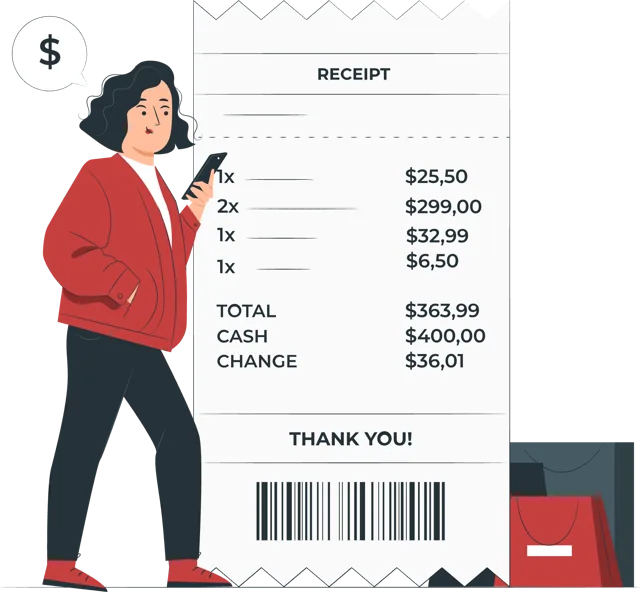
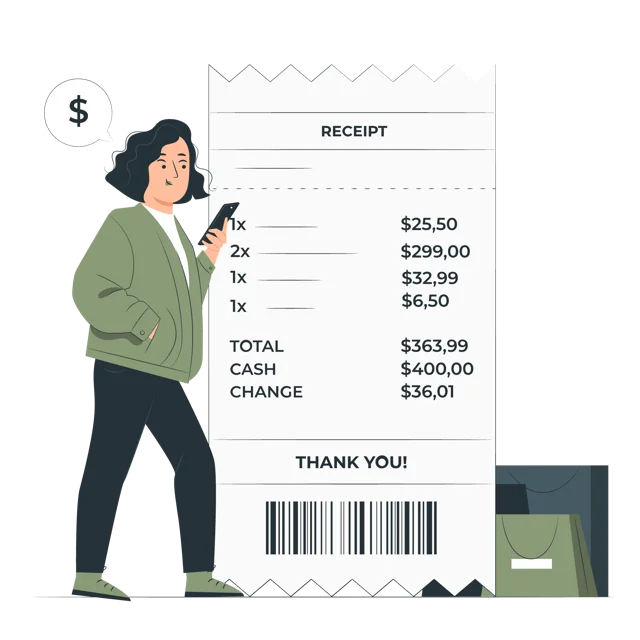
New picture, Storyset credit, red You owe, faster updates, show/hide passcode, security headers

diff --git a/public/app.js b/public/app.js
@@ -2,7 +2,7 @@
 "use strict";
 const V = document.getElementById("view");
 const DLG = document.getElementById("dlg");
-const POLL_MS = 20000;
+const POLL_MS = 10000;
 const BUILT_IN = ["Groceries","Dining","Lodging","Rent","Utilities","Travel","Transport","Shopping","Fun","Health","Other"];
 const CURRENCIES = [["USD","USD $"],["INR","INR ₹"],["EUR","EUR €"],["GBP","GBP £"],["CAD","CAD $"]];
 const MAX_RX = 4;
@@ -38,6 +38,8 @@ function ago(t){
 const shortDate = t => new Date(t).toLocaleDateString(undefined, { month: "short", day: "numeric" });
 const dot = (p, cls = "") => `<span class="dot ${cls}" style="background:${esc((p && p.color) || "#7a6f5c")}" aria-hidden="true">${esc(initial(p && p.name))}</span>`;
 const ICON = {
+  eye: `<svg width="18" height="18" viewBox="0 0 24 24" fill="none" stroke="currentColor" stroke-width="2" stroke-linecap="round" stroke-linejoin="round" aria-hidden="true"><path d="M2 12s3.6-7 10-7 10 7 10 7-3.6 7-10 7S2 12 2 12z"/><circle cx="12" cy="12" r="3"/></svg>`,
+  eyeOff: `<svg width="18" height="18" viewBox="0 0 24 24" fill="none" stroke="currentColor" stroke-width="2" stroke-linecap="round" stroke-linejoin="round" aria-hidden="true"><path d="M3 3l18 18"/><path d="M10.6 5.1A10.4 10.4 0 0 1 12 5c6.4 0 10 7 10 7a17.6 17.6 0 0 1-3.2 4.1M6.6 6.6C3.8 8.4 2 12 2 12s3.6 7 10 7a9.8 9.8 0 0 0 5.4-1.6"/><path d="M9.9 9.9a3 3 0 0 0 4.2 4.2"/></svg>`,
   back: `<svg width="18" height="18" viewBox="0 0 24 24" fill="none" stroke="currentColor" stroke-width="2.4" stroke-linecap="round" stroke-linejoin="round" aria-hidden="true"><path d="M15 18l-6-6 6-6"/></svg>`,
   chev: `<svg width="16" height="16" viewBox="0 0 24 24" fill="none" stroke="#5f6b5c" stroke-width="2.4" stroke-linecap="round" aria-hidden="true"><path d="M9 6l6 6-6 6"/></svg>`,
   alert: `<svg width="18" height="18" viewBox="0 0 24 24" fill="none" stroke="#a8452a" stroke-width="2.4" stroke-linecap="round" aria-hidden="true" style="flex:none;margin-top:1px"><circle cx="12" cy="12" r="9"/><path d="M12 8v5M12 16.5v.01"/></svg>`,
@@ -264,12 +266,13 @@ function viewAuth(r){
       <input id="au" name="username" type="text" autocomplete="username" autocapitalize="off" spellcheck="false" maxlength="20" required>
       ${create ? `<span class="hint" id="auHint">This is the name your groups will see.</span>` : ""}</div>
     <div class="field"><label class="eyebrow" for="ap">Password</label>
-      <input id="ap" name="password" type="password" autocomplete="${create ? "new-password" : "current-password"}" minlength="8" required>
+      <span class="pwwrap"><input id="ap" name="password" type="password" autocomplete="${create ? "new-password" : "current-password"}" minlength="8" required><button type="button" class="eye" data-act="peek" aria-label="Show" aria-pressed="false">${ICON.eye}</button></span>
       ${create ? `<span class="hint">At least 8 characters.</span>` : ""}</div>
     ${create ? "" : `<button type="button" class="linkbtn" data-act="toReset" style="align-self:flex-start">Forgot password?</button>`}
     <div class="err" id="aErr" role="alert"></div>
     <button class="btn primary full" type="submit">${create ? "Create profile" : "Log in"}</button>
-  </form>`;
+  </form>
+  <p class="credit"><a href="https://storyset.com" target="_blank" rel="noopener noreferrer">Illustrations by Storyset</a></p>`;
 }
 function viewReset(){
   return `${backLink("Log in", "toLogin")}
@@ -278,7 +281,7 @@ function viewReset(){
   <form class="stack" data-form="reset" novalidate style="gap:16px">
     <div class="field"><label class="eyebrow" for="ru">Username</label><input id="ru" name="username" type="text" autocomplete="username" autocapitalize="off" spellcheck="false"></div>
     <div class="field"><label class="eyebrow" for="rc">Recovery code</label><input id="rc" name="code" type="text" autocapitalize="characters" autocomplete="off" spellcheck="false" placeholder="XXXX-XXXX-XXXX" style="font-family:var(--mono)"></div>
-    <div class="field"><label class="eyebrow" for="rn">New password</label><input id="rn" name="password" type="password" autocomplete="new-password"><span class="hint">At least 8 characters.</span></div>
+    <div class="field"><label class="eyebrow" for="rn">New password</label><span class="pwwrap"><input id="rn" name="password" type="password" autocomplete="new-password"><button type="button" class="eye" data-act="peek" aria-label="Show" aria-pressed="false">${ICON.eye}</button></span><span class="hint">At least 8 characters.</span></div>
     <div class="card pad note">${ICON.info}<span>After this, you'll get a new recovery code. Your old one stops working.</span></div>
     <div class="err" id="rErr" role="alert"></div>
     <button class="btn primary full" type="submit">Set new password</button>
@@ -308,7 +311,7 @@ function viewHome(){
   const curs = Object.keys(net).sort((a, z) => Math.abs(net[z]) - Math.abs(net[a]));
   if (!curs.length) curs.push(gs[0] ? gs[0].currency : "USD");
   const cline = c => { const v = net[c] || 0;
-    return `<div class="cline"><span class="csym" aria-hidden="true">${esc(curSymbol(c))}</span><span class="l">${v > 0 ? "You're owed" : v < 0 ? "You owe" : "You're settled up"}</span><b style="color:${v > 0 ? "#d9ead0" : v < 0 ? "#ffd2c2" : "#fff"}">${fmt(Math.abs(v), c)}</b></div>`; };
+    return `<div class="cline${v < 0 ? " owe" : ""}"><span class="csym" aria-hidden="true">${esc(curSymbol(c))}</span><span class="l">${v > 0 ? "You're owed" : v < 0 ? "You owe" : "You're settled up"}</span><b style="color:${v > 0 ? "#d9ead0" : "#fff"}">${fmt(Math.abs(v), c)}</b></div>`; };
   const settles = gs.flatMap(g => (g.settles || []).map(s => ({ ...s, g })));
   return `<div class="topbar"><h1 style="font-size:28px;overflow-wrap:anywhere;min-width:0">Hello, ${esc(u.username)}</h1>
     <button type="button" class="avatar" data-act="profile" aria-label="Your profile">${esc(initial(u.username))}</button></div>
@@ -439,7 +442,7 @@ function viewCreate(){
   <h1>Create a group</h1>
   <form class="stack" data-form="create" novalidate style="gap:14px">
     <div class="field"><label class="eyebrow" for="gn">Group name</label><input id="gn" name="name" type="text" maxlength="60" placeholder="Flat 4B, Goa trip, Friday dinners" autofocus></div>
-    <div class="field"><label class="eyebrow" for="gp">Group passcode</label><input id="gp" name="passcode" type="text" autocapitalize="off" autocomplete="off" spellcheck="false" placeholder="mango-rooftop-17">
+    <div class="field"><label class="eyebrow" for="gp">Group passcode</label><span class="pwwrap"><input id="gp" name="passcode" type="text" autocapitalize="off" autocomplete="off" spellcheck="false" placeholder="mango-rooftop-17"><button type="button" class="eye" data-act="peek" aria-label="Hide" aria-pressed="true">${ICON.eyeOff}</button></span>
       <span class="hint">Friends need this and the link to join. At least 6 characters.</span></div>
     <div class="field"><label class="eyebrow" for="gc">Money</label>
       <select id="gc" name="currency">${CURRENCIES.map(([v, l]) => `<option value="${v}">${esc(l)}</option>`).join("")}</select>
@@ -460,7 +463,7 @@ function viewJoin(gid, g){
   </div>
   <form class="stack" data-form="join" novalidate>
     <div class="field"><label class="eyebrow" for="jp">Group passcode</label>
-      <input id="jp" name="passcode" type="password" autocomplete="off" autocapitalize="off" spellcheck="false" ${ch ? "readonly" : "autofocus"} value="${esc(S.ui.pc || "")}"></div>
+      <span class="pwwrap"><input id="jp" name="passcode" type="password" autocomplete="off" autocapitalize="off" spellcheck="false" ${ch ? "readonly" : "autofocus"} value="${esc(S.ui.pc || "")}"><button type="button" class="eye" data-act="peek" aria-label="Show" aria-pressed="false">${ICON.eye}</button></span></div>
     ${ch ? `<section class="card pad stack" style="gap:10px">
       <h2>Which one is you?</h2>
       <p class="small muted">This group has names that aren't linked to a profile yet. Pick yours to keep your past expenses.</p>
@@ -476,7 +479,7 @@ function viewPasscode(gid, g){
   <div class="stack tight"><span class="eyebrow">Passcode changed</span><h1>${esc(g.invite.name)}</h1>
   <p class="muted">The person who created this group changed its passcode. Enter the new one to keep going. Ask them if you don't have it.</p></div>
   <form class="stack" data-form="verify" novalidate>
-    <div class="field"><label class="eyebrow" for="vp">New passcode</label><input id="vp" name="passcode" type="password" autocomplete="off" autocapitalize="off" spellcheck="false" autofocus></div>
+    <div class="field"><label class="eyebrow" for="vp">New passcode</label><span class="pwwrap"><input id="vp" name="passcode" type="password" autocomplete="off" autocapitalize="off" spellcheck="false" autofocus><button type="button" class="eye" data-act="peek" aria-label="Show" aria-pressed="false">${ICON.eye}</button></span></div>
     <div class="err" id="vErr" role="alert"></div>
     <button class="btn primary full" type="submit">Open group</button>
   </form>`;
@@ -511,7 +514,7 @@ function headerLine(g){
 function heroCard(g){
   const v = balances(g)[g.me] || { net: 0, paid: 0, share: 0 }, cur = g.meta.currency;
   const lbl = v.net > 0 ? "You're owed" : v.net < 0 ? "You owe" : "You're settled up";
-  return `<section class="hero" aria-label="Your balance">
+  return `<section class="hero${v.net < 0 ? " owe" : ""}" aria-label="Your balance">
     <div class="lbl">${lbl}</div>
     <div class="big">${fmt(Math.abs(v.net), cur)}</div>
     <div class="tear"></div>
@@ -598,7 +601,7 @@ function dayLabel(d){
 }
 function ledgerHtml(g, f = {}){
   if (!g.entries.length) return `<section class="card pad stack center" style="align-items:center">
-    <img class="illus" style="max-width:220px" src="/assets/empty.webp" width="640" height="592" alt="">
+    <img class="illus" style="max-width:220px" src="/assets/empty.webp?v=2" width="640" height="640" alt="">
     <h2>No expenses yet</h2><p class="small muted">Log the first one: who paid, how much, and who it was for.</p></section>`;
   const q = (f.q || "").trim().toLowerCase(), pf = f.pf && f.pf !== "all" ? f.pf : "", cf = (f.cf || "").toLowerCase();
   const list = g.entries.filter(e => !pf || e.paidBy === pf || (e.split && pf in e.split))
@@ -1139,6 +1142,8 @@ async function copyText(t, okMsg){
 
 /* ---------- clicks ---------- */
 const ACT = {
+  peek: el => { const i = el.parentElement.querySelector("input"); const show = i.type === "password"; i.type = show ? "text" : "password";
+    el.setAttribute("aria-pressed", String(show)); el.setAttribute("aria-label", show ? "Hide" : "Show"); el.innerHTML = show ? ICON.eyeOff : ICON.eye; i.focus(); },
   retry: () => render(),
   home: () => go("/", {}),
   back: () => history.length > 1 ? history.back() : go("/"),
@@ -1160,13 +1165,13 @@ const ACT = {
   logout: async () => { try { await api("POST", "/api/auth", { op: "logout" }); } catch {} S.user = null; S.home = null; S.g = {}; go("/", {}); },
   dlgUsername: () => openDialog(dlgShell("Change username", `<div class="field"><label class="eyebrow" for="du">New username</label><input id="du" name="username" type="text" autocapitalize="off" spellcheck="false" maxlength="20" value="${esc(S.user.username)}"><span class="hint">3 to 20 letters, numbers, dots or underscores. Groups will see the new name.</span></div>`, "Save"),
     async f => { const d = await api("POST", "/api/auth", { op: "changeUsername", username: f.username }); S.user = { ...S.user, ...d.user }; S.home = null; S.g = {}; DLG.close(); toast("Username changed"); render(); }),
-  dlgPassword: () => openDialog(dlgShell("Change password", `<div class="field"><label class="eyebrow" for="dc">Current password</label><input id="dc" name="current" type="password" autocomplete="current-password"></div>
-    <div class="field"><label class="eyebrow" for="dn">New password</label><input id="dn" name="password" type="password" autocomplete="new-password"><span class="hint">At least 8 characters. Other devices will be logged out.</span></div>`, "Save"),
+  dlgPassword: () => openDialog(dlgShell("Change password", `<div class="field"><label class="eyebrow" for="dc">Current password</label><span class="pwwrap"><input id="dc" name="current" type="password" autocomplete="current-password"><button type="button" class="eye" data-act="peek" aria-label="Show" aria-pressed="false">${ICON.eye}</button></span></div>
+    <div class="field"><label class="eyebrow" for="dn">New password</label><span class="pwwrap"><input id="dn" name="password" type="password" autocomplete="new-password"><button type="button" class="eye" data-act="peek" aria-label="Show" aria-pressed="false">${ICON.eye}</button></span><span class="hint">At least 8 characters. Other devices will be logged out.</span></div>`, "Save"),
     async f => { await api("POST", "/api/auth", { op: "changePassword", current: f.current, password: f.password }); DLG.close(); toast("Password changed"); }),
-  dlgRecovery: () => openDialog(dlgShell("New recovery code", `<p class="small muted">Your old code will stop working. Enter your password to continue.</p><div class="field"><label class="eyebrow" for="dr">Password</label><input id="dr" name="password" type="password" autocomplete="current-password"></div>`, "Get new code"),
+  dlgRecovery: () => openDialog(dlgShell("New recovery code", `<p class="small muted">Your old code will stop working. Enter your password to continue.</p><div class="field"><label class="eyebrow" for="dr">Password</label><span class="pwwrap"><input id="dr" name="password" type="password" autocomplete="current-password"><button type="button" class="eye" data-act="peek" aria-label="Show" aria-pressed="false">${ICON.eye}</button></span></div>`, "Get new code"),
     async f => { const d = await api("POST", "/api/auth", { op: "newRecovery", password: f.password }); DLG.close(); S.showCode = { code: d.recoveryCode }; render(); }),
   dlgDelete: () => openDialog(dlgShell("Delete your profile?", `<p class="small" style="color:var(--body2)">You'll leave every group. Your past expenses stay in them, shown as "former member". You need to be settled up everywhere first. If you're the only one left in a group you created, that group is deleted too. This can't be undone.</p>
-    <div class="field"><label class="eyebrow" for="dd">Password</label><input id="dd" name="password" type="password" autocomplete="current-password"></div>`, "Delete profile", true),
+    <div class="field"><label class="eyebrow" for="dd">Password</label><span class="pwwrap"><input id="dd" name="password" type="password" autocomplete="current-password"><button type="button" class="eye" data-act="peek" aria-label="Show" aria-pressed="false">${ICON.eye}</button></span></div>`, "Delete profile", true),
     async f => { await api("POST", "/api/auth", { op: "deleteProfile", password: f.password }); DLG.close(); S.user = null; S.home = null; S.g = {}; toast("Profile deleted"); go("/", {}); }),
   pick: el => { S.ui.claim = el.dataset.id; S.ui.pc = V.querySelector("#jp").value; render(); },
   invite: () => { const g = G(); copyText(`Join "${g.meta.name}" on Contri so we can split costs: ${inviteLink(g.meta.id)}\nI'll send you the passcode separately.`, "Invite copied"); },
@@ -1228,7 +1233,7 @@ const ACT = {
     catch (e){ el.disabled = false; handleErr(e, V.querySelector("#bkErr")); }
   },
   tip: () => { S.ui.tip = !S.ui.tip; const t = V.querySelector("#curTip"); t.hidden = !S.ui.tip; V.querySelector("[data-act=tip]").setAttribute("aria-expanded", S.ui.tip); },
-  dlgPasscode: () => openDialog(dlgShell("Change passcode", `<div class="field"><label class="eyebrow" for="dp">New passcode</label><input id="dp" name="passcode" type="text" autocapitalize="off" autocomplete="off" spellcheck="false"><span class="hint">At least 6 characters. Everyone else will be asked for it the next time they open the group.</span></div>`, "Change passcode"),
+  dlgPasscode: () => openDialog(dlgShell("Change passcode", `<div class="field"><label class="eyebrow" for="dp">New passcode</label><span class="pwwrap"><input id="dp" name="passcode" type="text" autocapitalize="off" autocomplete="off" spellcheck="false"><button type="button" class="eye" data-act="peek" aria-label="Hide" aria-pressed="true">${ICON.eyeOff}</button></span><span class="hint">At least 6 characters. Everyone else will be asked for it the next time they open the group.</span></div>`, "Change passcode"),
     async f => { const g = G(); await api("POST", "/api/group", { op: "changePasscode", g: g.meta.id, passcode: f.passcode }); await loadGroup(g.meta.id); DLG.close(); toast("Passcode changed. Send it to the group."); render(); }),
   leave: async el => {
     const g = G();
@@ -1371,24 +1376,37 @@ let polling = false;
 async function poll(){
   const r = route();
   if (polling || document.visibilityState !== "visible" || DLG.open || !S.user) return;
-  if (!r.gid || r.sec === "expense" || r.sec === "pay" || r.sec === "leave") return;
+  if (r.sec === "expense" || r.sec === "pay" || r.sec === "leave") return;
+  const a = document.activeElement;
+  if (a && a !== document.body && a.matches("input,select,textarea") && a.type !== "search") return;
+  if (!r.gid) return pollHome(r);
   const g = S.g[r.gid];
   if (!g || !g.meta) return;
-  const a = document.activeElement;
-  if (a && a !== document.body && a.matches("input,select,textarea")) return;
   polling = true;
   try {
     const before = new Set(g.entries.map(e => e.id + ":" + (e.editedAt || e.createdAt)));
     if (await loadGroup(r.gid, true)){
       const ng = S.g[r.gid];
       if (ng.meta) S.fresh = new Set(ng.entries.filter(e => !before.has(e.id + ":" + (e.editedAt || e.createdAt))).map(e => e.id));
-      const y = window.scrollY; await render(); window.scrollTo(0, y);
+      const y = window.scrollY, f = document.activeElement, fid = f && f.id, sel = fid && f.selectionStart;
+      await render(); window.scrollTo(0, y);
+      if (fid){ const n = document.getElementById(fid); if (n){ n.focus({ preventScroll: true }); try { n.setSelectionRange(sel, sel); } catch {} } }
     }
     const off = V.querySelector("#offline"); if (off) off.hidden = true;
   } catch (e){
     if (e.status === 0){ const off = V.querySelector("#offline"); if (off){ off.textContent = "You're offline. Changes from others will show up when you reconnect."; off.hidden = false; } }
     else if (e.status === 401 || e.status === 403 || e.status === 404){ delete S.g[r.gid]; render(); }
   } finally { polling = false; }
+}
+async function pollHome(r){
+  if (r.v || !S.home) return;
+  polling = true;
+  try {
+    const d = await api("GET", "/api/home");
+    if (JSON.stringify(d) !== JSON.stringify(S.home) && !route().gid && !route().v && !DLG.open){
+      S.home = d; const y = window.scrollY; paint(S.home.groups.length ? viewHome() : viewEmptyHome(), "", true); window.scrollTo(0, y);
+    }
+  } catch {} finally { polling = false; }
 }
 setInterval(poll, POLL_MS);
 document.addEventListener("visibilitychange", () => {

diff --git a/test/server.js b/test/server.js
@@ -1,0 +1,89 @@
+// Local test server: serves public/ and the api/ functions against an in-memory Redis.
+import http from "node:http";
+import fs from "node:fs";
+import path from "node:path";
+import { fileURLToPath } from "node:url";
+
+const root = path.join(path.dirname(fileURLToPath(import.meta.url)), "..");
+
+class Mem {
+  constructor() { this.m = new Map(); this.exp = new Map(); }
+  _alive(k) { const e = this.exp.get(k); if (e && e <= Date.now()) { this.m.delete(k); this.exp.delete(k); } return this.m.has(k); }
+  _get(k, type, make) { this._alive(k); let v = this.m.get(k); if (v === undefined && make) { v = make(); this.m.set(k, v); } return v; }
+  async get(k) { const v = this._get(k); return v === undefined ? null : v; }
+  async set(k, v, o = {}) { if (o.nx && this._alive(k)) return null; this.m.set(k, String(v)); this.exp.delete(k); if (o.ex) this.exp.set(k, Date.now() + o.ex * 1000); return "OK"; }
+  async del(...ks) { let n = 0; for (const k of ks) { if (this._alive(k)) n++; this.m.delete(k); this.exp.delete(k); } return n; }
+  async exists(k) { return this._alive(k) ? 1 : 0; }
+  async incr(k) { const v = Number(this._get(k) || 0) + 1; this.m.set(k, String(v)); return v; }
+  async expire(k, s) { if (!this._alive(k)) return 0; this.exp.set(k, Date.now() + s * 1000); return 1; }
+  async ttl(k) { if (!this._alive(k)) return -2; const e = this.exp.get(k); return e ? Math.ceil((e - Date.now()) / 1000) : -1; }
+  async persist(k) { return this.exp.delete(k) ? 1 : 0; }
+  async hgetall(k) { const h = this._get(k); if (!h) return null; return [...h.entries()].flat(); }
+  async hget(k, f) { const h = this._get(k); return h && h.has(f) ? h.get(f) : null; }
+  async hset(k, obj) { const h = this._get(k, "h", () => new Map()); let n = 0; for (const [f, v] of Object.entries(obj)) { if (!h.has(f)) n++; h.set(f, String(v)); } return n; }
+  async hsetnx(k, f, v) { const h = this._get(k, "h", () => new Map()); if (h.has(f)) return 0; h.set(f, String(v)); return 1; }
+  async hexists(k, f) { const h = this._get(k); return h && h.has(f) ? 1 : 0; }
+  async hdel(k, ...fs) { const h = this._get(k); if (!h) return 0; let n = 0; for (const f of fs) if (h.delete(f)) n++; if (!h.size) this.m.delete(k); return n; }
+  async lpush(k, ...vs) { const l = this._get(k, "l", () => []); for (const v of vs) l.unshift(String(v)); return l.length; }
+  async rpush(k, ...vs) { const l = this._get(k, "l", () => []); for (const v of vs) l.push(String(v)); return l.length; }
+  async ltrim(k, a, b) { const l = this._get(k); if (!l) return "OK"; const r = l.slice(a, b === -1 ? undefined : b + 1); this.m.set(k, r); return "OK"; }
+  async lrange(k, a, b) { const l = this._get(k) || []; return l.slice(a, b === -1 ? undefined : b + 1); }
+  async sadd(k, ...vs) { const s = this._get(k, "s", () => new Set()); let n = 0; for (const v of vs) if (!s.has(String(v))) { s.add(String(v)); n++; } return n; }
+  async srem(k, ...vs) { const s = this._get(k); if (!s) return 0; let n = 0; for (const v of vs) if (s.delete(String(v))) n++; if (!s.size) this.m.delete(k); return n; }
+  async smembers(k) { return [...(this._get(k) || [])]; }
+  async scard(k) { return (this._get(k) || new Set()).size; }
+}
+globalThis.__ledgerStore = new Mem();
+export const mem = globalThis.__ledgerStore;
+
+const handlers = {};
+for (const f of ["auth", "group", "home", "receipt", "backup", "cron"]) handlers[f] = (await import(path.join(root, "api", f + ".js"))).default;
+
+const types = { ".html": "text/html", ".js": "text/javascript", ".css": "text/css", ".png": "image/png", ".webp": "image/webp", ".ico": "image/x-icon", ".webmanifest": "application/manifest+json", ".svg": "image/svg+xml" };
+
+export function start(port = 5180) {
+  const server = http.createServer(async (req, res) => {
+    const u = new URL(req.url, "http://x");
+    const m = u.pathname.match(/^\/api\/([a-z]+)$/);
+    if (m && handlers[m[1]]) {
+      let raw = "";
+      for await (const c of req) raw += c;
+      req.query = Object.fromEntries(u.searchParams);
+      try { req.body = raw ? JSON.parse(raw) : {}; } catch { req.body = raw; }
+      res.status = c => { res.statusCode = c; return res; };
+      res.json = o => { res.setHeader("content-type", "application/json"); res.end(JSON.stringify(o)); return res; };
+      // Local test server is plain http, so drop "Secure" from cookies.
+      const sh = res.setHeader.bind(res);
+      res.setHeader = (k, v) => sh(k, k.toLowerCase() === "set-cookie" ? String(v).replace("; Secure", "") : v);
+      return handlers[m[1]](req, res);
+    }
+    let p = u.pathname.startsWith("/g/") || u.pathname === "/" ? "/index.html" : u.pathname;
+    const file = path.join(root, "public", path.normalize(p));
+    if (!file.startsWith(path.join(root, "public")) || !fs.existsSync(file)) { res.statusCode = 404; return res.end("not found"); }
+    res.setHeader("content-type", types[path.extname(file)] || "application/octet-stream");
+    for (const h of (JSON.parse(fs.readFileSync(path.join(root, "vercel.json"), "utf8")).headers || [])[0]?.headers || []) res.setHeader(h.key, h.value);
+    fs.createReadStream(file).pipe(res);
+  });
+  return new Promise(ok => server.listen(port, () => ok(server)));
+}
+
+if (process.argv[1] === fileURLToPath(import.meta.url)) {
+  // Seed the old single-group data so moving it over can be tried.
+  if (process.env.SEED_LEGACY) {
+    const P = { a: "aaaaaaaa1", b: "bbbbbbbb1", c: "cccccccc1" };
+    await mem.hset("ledger:people", {
+      [P.a]: JSON.stringify({ id: P.a, name: "Nitin", color: "#2f3fa0", order: 1 }),
+      [P.b]: JSON.stringify({ id: P.b, name: "Sonal", color: "#b4412c", order: 2 }),
+      [P.c]: JSON.stringify({ id: P.c, name: "Rajat", color: "#18794e", order: 3 }),
+    });
+    await mem.set("ledger:meta", JSON.stringify({ name: "Vacay Mode On", currency: "USD" }));
+    await mem.hset("ledger:entries", {
+      e1aaaaaaa: JSON.stringify({ id: "e1aaaaaaa", type: "expense", amount: 30000, date: "2026-10-22", paidBy: P.a, split: { [P.a]: 10000, [P.b]: 10000, [P.c]: 10000 }, desc: "Lodge", category: "Travel", mode: "equal", note: "", addedBy: P.a, createdAt: Date.now() - 86400000, receipts: ["rx1aaaaaa"] }),
+    });
[1 lines of base64/hex data omitted]
+    await mem.lpush("ledger:log", JSON.stringify({ t: Date.now() - 86400000, by: P.a, action: "added", type: "expense", desc: "Lodge", amount: 30000, from: P.a }));
+    process.env.GROUP_PASSCODE = "oldpass1";
+  }
+  await start(Number(process.env.PORT || 5180));
+  console.log("listening");
+}

diff --git a/public/index.html b/public/index.html
@@ -306,6 +306,13 @@ dialog h2{font-size:22px}
 .hero .cline + .cline{border-top:2px dashed rgba(255,255,255,.25)}
 .hero .csym{width:28px;height:28px;border-radius:8px;background:rgba(255,255,255,.14);display:grid;place-items:center;font-weight:700;font-size:14px;flex:none}
 .hero .cline .l{flex:1;font-size:14px;opacity:.9}
+.pwwrap{position:relative;display:block}.pwwrap input{width:100%;padding-right:46px}
+.pwwrap .eye{position:absolute;right:4px;top:50%;transform:translateY(-50%);width:38px;height:38px;border:0;background:none;color:var(--muted);display:grid;place-items:center;cursor:pointer;border-radius:10px}
+.pwwrap .eye:hover{background:var(--tint)}
+.hero.owe{background:var(--neg)}
+.hero .cline.owe{background:var(--neg);border-radius:10px;margin:2px -10px;padding:6px 10px}
+.hero .cline.owe + .cline,.hero .cline + .cline.owe{border-top-color:transparent}
+.credit{text-align:center;font-size:11px;color:var(--muted);margin-top:14px}.credit a{color:inherit}
 .hero .cline b{font-family:var(--mono);font-size:18px}
 .gcard{position:relative;overflow:hidden;display:flex;gap:12px;align-items:center;padding:14px 14px 14px 18px;background:var(--surface);border:1px solid var(--line);border-radius:16px;text-decoration:none;color:var(--ink)}
 .gcard:hover{border-color:var(--border);color:var(--ink)}
@@ -336,6 +343,6 @@ dialog h2{font-size:22px}
 <div class="wave" id="wave" aria-hidden="true" hidden><svg viewBox="0 0 390 200" preserveAspectRatio="none"><path d="M0 92 C 70 40, 150 140, 245 86 S 360 52, 390 64 V200 H0Z" fill="#8a9a78" opacity=".16"/><path d="M0 132 C 90 96, 180 170, 280 124 S 370 108, 390 116 V200 H0Z" fill="#8a9a78" opacity=".14"/></svg></div>
 <main id="view"><div class="loading">Loading…</div></main>
 <dialog id="dlg"></dialog>
-<script src="/app.js?v=8"></script>
+<script src="/app.js?v=9"></script>
 </body>
 </html>
